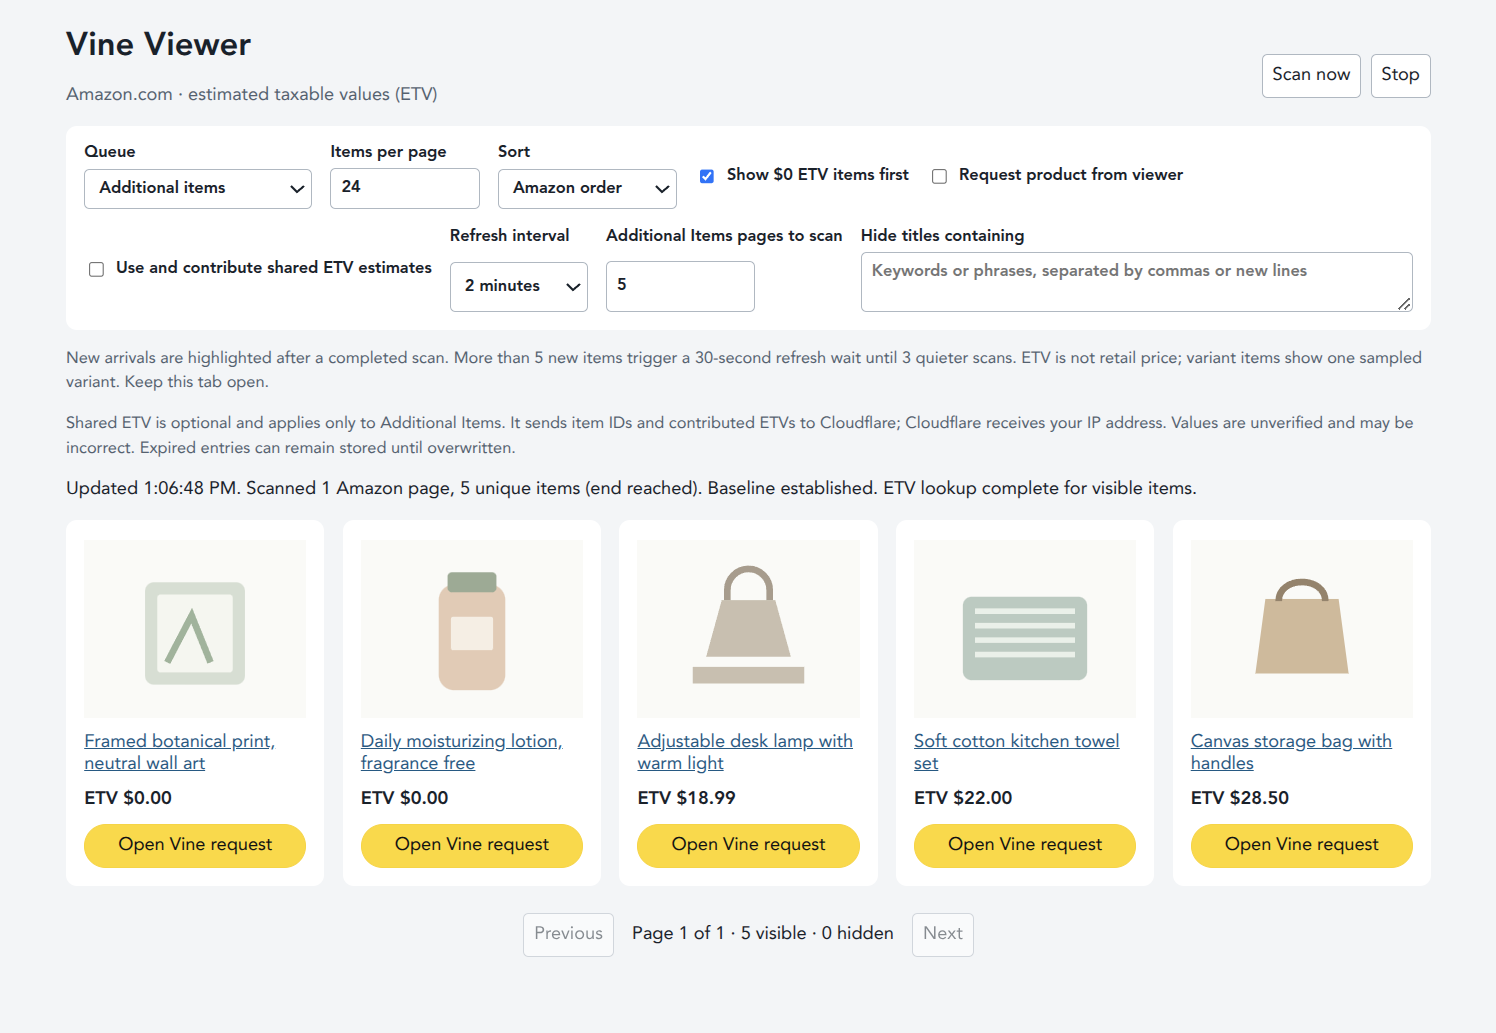
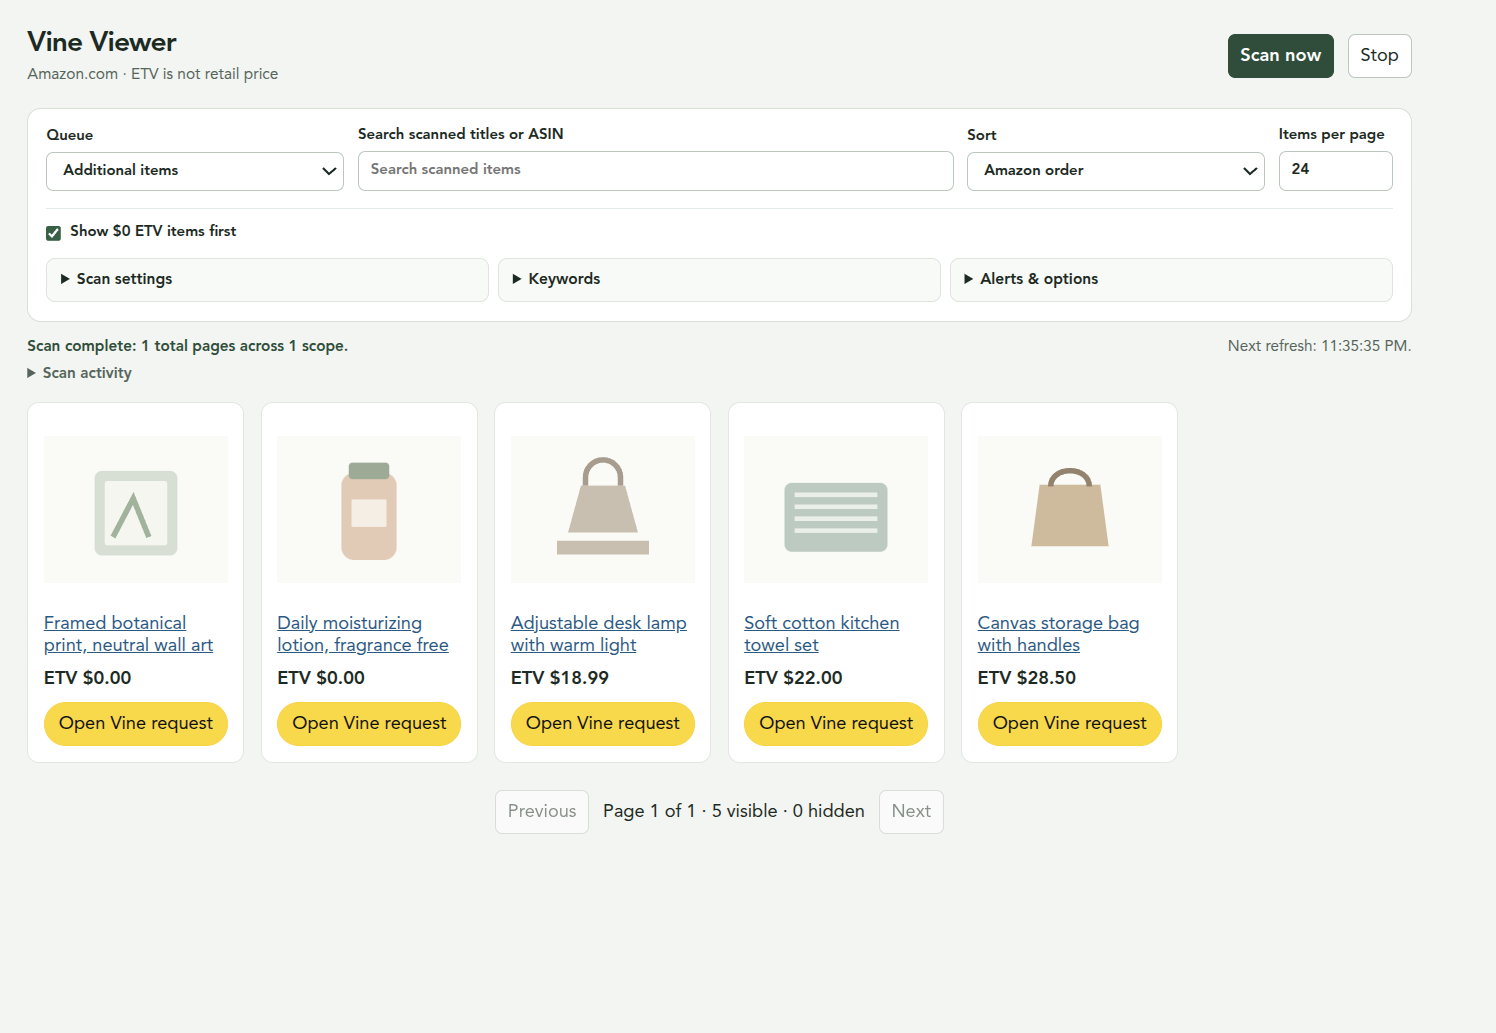
Condense viewer controls and settings
Organize advanced settings into collapsible groups while keeping browsing and scan status accessible.

diff --git a/viewer.html b/viewer.html
@@ -12,10 +12,10 @@
 </head>
 <body>
   <main>
-    <header>
+    <header class="app-header">
       <div>
         <h1>Vine Viewer</h1>
-        <p>Amazon.com &middot; estimated taxable values (ETV)</p>
+        <p>Amazon.com &middot; ETV is not retail price</p>
       </div>
       <div class="actions">
         <button id="refresh" type="button">Scan now</button>
@@ -23,63 +23,92 @@
       </div>
     </header>
     <form id="settings">
-      <label>Queue
-        <select id="queue">
-          <option value="encore">Additional items</option>
-          <option value="potluck">Recommended for you</option>
-          <option value="last_chance">Available for all</option>
-        </select>
-      </label>
-      <label>Items per page
-        <input id="page-size" type="number" min="1" max="100" step="1" required>
-      </label>
-      <label>Sort
-        <select id="sort">
-          <option value="recent">Amazon order</option>
-          <option value="high">ETV: high to low</option>
-          <option value="low">ETV: low to high</option>
-        </select>
-      </label>
-      <label class="checkbox"><input id="show-zero" type="checkbox"> Show $0 ETV items first</label>
-      <label class="checkbox"><input id="direct-request" type="checkbox"> Request product from viewer</label>
-      <label class="checkbox"><input id="shared-etv" type="checkbox"> Use and contribute shared ETV estimates</label>
-      <label>Refresh interval
-        <select id="interval">
-          <option value="0">Off</option>
-          <option value="120">2 minutes</option>
-          <option value="300">5 minutes</option>
-          <option value="600">10 minutes</option>
-          <option value="1800">30 minutes</option>
-        </select>
-      </label>
-      <label>Additional Items pages to scan
-        <input id="scan-pages" type="number" min="1" max="100" step="1" required>
-      </label>
-      <label class="keywords">Hide titles containing
-        <textarea id="keywords" rows="2" placeholder="Keywords or phrases, separated by commas or new lines"></textarea>
-      </label>
-      <label class="keywords">Highlight titles containing
-        <textarea id="highlight-keywords" rows="2" placeholder="Keywords or phrases, separated by commas or new lines"></textarea>
-      </label>
-      <label class="keywords">Favorite Additional Items category URLs
-        <textarea id="categories" rows="2" placeholder="One Amazon.com Vine category URL per line"></textarea>
-      </label>
-      <label class="checkbox"><input id="alert-keywords" type="checkbox"> Alert for highlighted keywords</label>
-      <label class="checkbox"><input id="alert-zero" type="checkbox"> Alert for $0 ETV</label>
-      <label class="checkbox"><input id="alert-sound" type="checkbox"> Play alert sound</label>
-      <label class="checkbox"><input id="alert-desktop" type="checkbox"> Desktop notifications</label>
+      <div class="browse-controls">
+        <label>Queue
+          <select id="queue">
+            <option value="encore">Additional items</option>
+            <option value="potluck">Recommended for you</option>
+            <option value="last_chance">Available for all</option>
+          </select>
+        </label>
+        <label class="search">Search scanned titles or ASIN
+          <input id="search" type="search" placeholder="Search scanned items" autocomplete="off">
+        </label>
+        <label>Sort
+          <select id="sort">
+            <option value="recent">Amazon order</option>
+            <option value="high">ETV: high to low</option>
+            <option value="low">ETV: low to high</option>
+          </select>
+        </label>
+        <label>Items per page
+          <input id="page-size" type="number" min="1" max="100" step="1" required>
+        </label>
+      </div>
+      <div class="settings-bar">
+        <label class="checkbox"><input id="show-zero" type="checkbox"> Show $0 ETV items first</label>
+        <div class="settings-groups">
+          <details id="scan-settings">
+            <summary>Scan settings</summary>
+            <div class="settings-content">
+              <label>Refresh interval
+                <select id="interval">
+                  <option value="0">Off</option>
+                  <option value="120">2 minutes</option>
+                  <option value="300">5 minutes</option>
+                  <option value="600">10 minutes</option>
+                  <option value="1800">30 minutes</option>
+                </select>
+              </label>
+              <label>Additional Items pages to scan
+                <input id="scan-pages" type="number" min="1" max="100" step="1" required>
+              </label>
+              <label>Favorite Additional Items category URLs
+                <textarea id="categories" rows="2" placeholder="One Amazon.com Vine category URL per line"></textarea>
+              </label>
+              <p class="note">Favorites are scanned after the regular pages; the page limit applies to each. Keep this tab open. More than 5 new items trigger a 30-second refresh wait until 3 quieter scans.</p>
+            </div>
+          </details>
+          <details>
+            <summary>Keywords</summary>
+            <div class="settings-content">
+              <label>Hide titles containing
+                <textarea id="keywords" rows="2" placeholder="Keywords or phrases, separated by commas or new lines"></textarea>
+              </label>
+              <label>Highlight titles containing
+                <textarea id="highlight-keywords" rows="2" placeholder="Keywords or phrases, separated by commas or new lines"></textarea>
+              </label>
+            </div>
+          </details>
+          <details>
+            <summary>Alerts &amp; options</summary>
+            <div class="settings-content">
+              <label class="checkbox"><input id="alert-keywords" type="checkbox"> Alert for highlighted keywords</label>
+              <label class="checkbox"><input id="alert-zero" type="checkbox"> Alert for $0 ETV</label>
+              <label class="checkbox"><input id="alert-sound" type="checkbox"> Play alert sound</label>
+              <label class="checkbox"><input id="alert-desktop" type="checkbox"> Desktop notifications</label>
+              <label class="checkbox"><input id="direct-request" type="checkbox"> Request product from viewer</label>
+              <label class="checkbox"><input id="shared-etv" type="checkbox" aria-describedby="shared-etv-note"> Use and contribute shared ETV estimates</label>
+              <p class="note" id="shared-etv-note">Optional; Additional Items only. Sends item IDs and contributed ETVs to Cloudflare, which receives your IP address. Estimates are unverified and may be incorrect. Expired entries can remain stored until overwritten.</p>
+            </div>
+          </details>
+        </div>
+      </div>
     </form>
-    <p class="note">Favorite categories are scanned after the regular Additional Items pages, with the page limit applied to each. New arrivals are highlighted after a completed scan. More than 5 new items trigger a 30-second refresh wait until 3 quieter scans. ETV is not retail price; variant items show one sampled variant. Keep this tab open.</p>
-    <p class="note">Shared ETV is optional and applies only to Additional Items. It sends item IDs and contributed ETVs to Cloudflare; Cloudflare receives your IP address. Values are unverified and may be incorrect. Expired entries can remain stored until overwritten.</p>
     <p id="cache-status" role="status" aria-live="polite" hidden></p>
     <p id="alert-status" role="alert" hidden></p>
-    <p id="scan-progress" role="status" aria-live="polite">Starting scan…</p>
-    <p id="next-refresh">Next refresh: not scheduled.</p>
-    <p id="status" role="status" aria-live="polite">Starting&hellip;</p>
     <p id="error" role="alert" hidden></p>
-    <label class="search">Search scanned titles or ASIN
-      <input id="search" type="search" placeholder="Search scanned items" autocomplete="off">
-    </label>
+    <section class="scan-status" aria-label="Scan status">
+      <div class="scan-status-line">
+        <p id="scan-progress" role="status" aria-live="polite">Starting scan…</p>
+        <p id="next-refresh">Next refresh: not scheduled.</p>
+      </div>
+      <details class="activity">
+        <summary>Scan activity</summary>
+        <p id="status" role="status" aria-live="polite">Starting&hellip;</p>
+        <p class="note">New arrivals are highlighted after a completed scan. Variant items show one sampled variant.</p>
+      </details>
+    </section>
     <section id="items" aria-label="Vine items"></section>
     <nav aria-label="Viewer pages">
       <button id="previous" type="button">Previous</button>

diff --git a/viewer.css b/viewer.css
@@ -1,35 +1,82 @@
-:root { color-scheme: light; font-family: system-ui, sans-serif; color: #17212b; background: #f3f5f7; }
+:root {
+  color-scheme: light;
+  font-family: system-ui, sans-serif;
+  color: #172b23;
+  background: #f3f5f2;
+}
+* { box-sizing: border-box; }
 body { margin: 0; }
-main { max-width: 1200px; margin: auto; padding: 1.5rem; }
-header, nav { display: flex; justify-content: space-between; align-items: center; gap: 1rem; }
-h1 { margin: 0; font-size: 1.8rem; }
-header p, .note { color: #526170; }
-form { display: flex; gap: 1rem; flex-wrap: wrap; padding: 1rem; background: white; border-radius: 0.6rem; }
-label { display: grid; gap: 0.3rem; font-size: 0.9rem; font-weight: 600; }
+main { max-width: 1280px; margin: auto; padding: 1.5rem; }
+.app-header, .actions, .scan-status-line, nav { display: flex; align-items: center; gap: 0.75rem; }
+.app-header { justify-content: space-between; margin-bottom: 1.25rem; }
+h1 { margin: 0; font-size: 1.55rem; letter-spacing: -0.035em; }
+.app-header p { margin: 0.25rem 0 0; color: #52665a; font-size: 0.85rem; }
+label { display: grid; gap: 0.35rem; min-width: 0; font-size: 0.82rem; font-weight: 650; }
 [hidden] { display: none !important; }
-input, select, button, textarea { font: inherit; padding: 0.55rem; border: 1px solid #aeb8c2; border-radius: 0.3rem; background: white; color: inherit; }
-input { width: 7rem; }
-.checkbox { display: flex; align-items: center; gap: 0.5rem; }
-.checkbox input { width: auto; }
-.keywords { flex: 1 1 300px; }
-.search { margin: 1rem 0; max-width: 24rem; }
-.search input { width: auto; }
-.actions { display: flex; gap: 0.5rem; }
+input, select, button, textarea {
+  min-width: 0;
+  font: inherit;
+  padding: 0.55rem 0.65rem;
+  border: 1px solid #b9c9bd;
+  border-radius: 0.4rem;
+  background: white;
+  color: inherit;
+}
+input:focus-visible, select:focus-visible, button:focus-visible, textarea:focus-visible, summary:focus-visible, a:focus-visible {
+  outline: 3px solid #82ab80;
+  outline-offset: 2px;
+}
+input, select, textarea { width: 100%; }
+textarea { resize: vertical; }
 button { cursor: pointer; }
 button:disabled { opacity: 0.5; cursor: default; }
-.note { font-size: 0.9rem; line-height: 1.5; }
-#error { padding: 0.75rem; background: #fff0ef; color: #8e211b; border-radius: 0.3rem; }
-#items { display: grid; grid-template-columns: repeat(auto-fill, minmax(190px, 1fr)); gap: 1rem; }
-article { display: flex; flex-direction: column; padding: 1rem; gap: 0.7rem; background: white; border-radius: 0.6rem; }
+#refresh { background: #244e38; border-color: #244e38; color: white; font-weight: 650; }
+#refresh:hover:not(:disabled) { background: #326449; }
+#settings { padding: 1rem; border: 1px solid #d6e0d6; border-radius: 0.75rem; background: white; }
+.browse-controls { display: grid; grid-template-columns: minmax(150px, 1fr) minmax(200px, 2fr) minmax(150px, 1fr) 100px; gap: 0.75rem; align-items: end; }
+.settings-bar { margin-top: 0.9rem; padding-top: 0.8rem; border-top: 1px solid #e3ebe3; }
+.checkbox { display: flex; align-items: center; gap: 0.5rem; line-height: 1.35; }
+.checkbox input { flex: 0 0 auto; width: auto; margin: 0; accent-color: #276141; }
+.settings-groups { display: grid; grid-template-columns: repeat(3, minmax(0, 1fr)); gap: 0.5rem; margin-top: 0.8rem; align-items: start; }
+.settings-groups details { min-width: 0; border: 1px solid #dce5dc; border-radius: 0.5rem; background: #f8faf7; }
+summary { cursor: pointer; font-weight: 650; }
+.settings-groups summary { padding: 0.65rem 0.75rem; font-size: 0.85rem; }
+.settings-content { display: grid; gap: 0.8rem; padding: 0.25rem 0.75rem 0.75rem; }
+.settings-content .note { margin: 0; }
+.note { color: #52665a; font-size: 0.8rem; line-height: 1.5; }
+#error, #alert-status, #cache-status { padding: 0.75rem; border-radius: 0.5rem; background: #fff0ef; color: #8e211b; font-size: 0.9rem; }
+.scan-status { margin: 0.9rem 0 1rem; color: #52665a; font-size: 0.84rem; }
+.scan-status-line { flex-wrap: wrap; justify-content: space-between; gap: 0.25rem 1rem; }
+.scan-status p { margin: 0; }
+#scan-progress { color: #244e38; font-weight: 650; }
+#next-refresh, #pagination { font-variant-numeric: tabular-nums; }
+.activity { margin-top: 0.45rem; }
+.activity summary { width: fit-content; color: #52665a; }
+.activity p { margin-top: 0.5rem; }
+#items { display: grid; grid-template-columns: repeat(auto-fill, minmax(190px, 1fr)); gap: 0.9rem; }
+article { display: flex; flex-direction: column; padding: 0.85rem; gap: 0.65rem; min-width: 0; background: white; border: 1px solid #e0e8e0; border-radius: 0.65rem; }
 article.new-arrival { outline: 2px solid #087549; background: #eaf8ef; }
 article.keyword-match { box-shadow: inset 0 0 0 2px #ad7713; }
-.keyword-badge { align-self: flex-start; background: #fff0c7; color: #694400; border-radius: 0.25rem; padding: 0.2rem 0.45rem; font-size: 0.8rem; font-weight: 700; }
-.arrival-badge { align-self: flex-start; background: #087549; color: white; border-radius: 0.25rem; padding: 0.2rem 0.45rem; font-size: 0.8rem; font-weight: 700; }
+.keyword-badge, .arrival-badge { align-self: flex-start; border-radius: 0.25rem; padding: 0.2rem 0.45rem; font-size: 0.75rem; font-weight: 700; }
+.keyword-badge { background: #fff0c7; color: #694400; }
+.arrival-badge { background: #087549; color: white; }
 article img { width: 100%; height: 160px; object-fit: contain; }
 article a { color: #075a86; overflow-wrap: anywhere; }
-.request-button { padding: 0.55rem; background: #ffd814; border: 1px solid #fcd200; border-radius: 1.2rem; text-align: center; text-decoration: none; color: #111; }
 article strong { margin-top: auto; }
-nav { justify-content: center; margin: 1.5rem 0; }
+.request-button { padding: 0.55rem; background: #ffd814; border: 1px solid #fcd200; border-radius: 1.2rem; text-align: center; text-decoration: none; color: #111; }
+nav { justify-content: center; flex-wrap: wrap; margin: 1.5rem 0; }
 dialog { max-width: 32rem; border: 1px solid #aeb8c2; border-radius: 0.6rem; padding: 1.5rem; }
 dialog::backdrop { background: rgb(0 0 0 / 55%); }
 #request-error { color: #8e211b; }
+@media (max-width: 760px) {
+  .browse-controls { grid-template-columns: repeat(2, minmax(0, 1fr)); }
+  .settings-groups { grid-template-columns: 1fr; }
+}
+@media (max-width: 480px) {
+  main { padding: 1rem; }
+  .app-header { align-items: flex-start; flex-wrap: wrap; }
+  .browse-controls { grid-template-columns: 1fr 1fr; }
+  .search { grid-column: 1 / -1; grid-row: 1; }
+  #items { grid-template-columns: repeat(auto-fill, minmax(min(150px, 100%), 1fr)); gap: 0.65rem; }
+  article img { height: 130px; }
+}

diff --git a/viewer.js b/viewer.js
@@ -474,6 +474,7 @@ async function applySettings() {
   if (!Number.isInteger(pageSize) || pageSize < 1 || pageSize > 100 ||
       !Number.isInteger(scanPages) || scanPages < 1 || scanPages > 100) {
     settingsInvalid = true;
+    if (!Number.isInteger(scanPages) || scanPages < 1 || scanPages > 100) $("scan-settings").open = true;
     showError("Items per page and pages to scan must be whole numbers from 1 to 100.");
     return;
   }
@@ -481,6 +482,7 @@ async function applySettings() {
     VineCore.parseCategories($("categories").value);
   } catch (error) {
     settingsInvalid = true;
+    $("scan-settings").open = true;
     showError(error.message);
     return;
   }
@@ -573,7 +575,7 @@ async function start() {
   $("direct-request").checked = settings.directRequest;
   $("shared-etv").checked = settings.sharedEtv;
   $("settings").addEventListener("change", (event) => {
-    if (event.target.id === "alert-desktop") return;
+    if (event.target.id === "alert-desktop" || event.target.id === "search") return;
     void applySettings().catch((error) => showError(`Could not save settings: ${error.message}`));
   });
   $("alert-desktop").addEventListener("change", () => {

diff --git a/tests/viewer.test.js b/tests/viewer.test.js
@@ -59,3 +59,15 @@ test("refresh scheduling reports the timer and clears it when paused", () => {
   assert.equal(h.timers[0].cleared, true);
   assert.equal(h.nodes.get("next-refresh").textContent, "Next refresh: not scheduled.");
 });
+
+test("reveals collapsed scan settings when a category URL is invalid", async () => {
+  const h = harness();
+  vm.runInContext(`
+    $("page-size").value = "24";
+    $("scan-pages").value = "5";
+    $("categories").value = "not a URL";
+  `, h.context);
+  await vm.runInContext("applySettings()", h.context);
+  assert.equal(h.nodes.get("scan-settings").open, true);
+  assert.match(h.nodes.get("error").textContent, /category URL/);
+});

diff --git a/README.md b/README.md
@@ -17,6 +17,8 @@ The optional **Request product from viewer** setting changes that button to **Re
 
 ## How it works
 
+The queue, search, sort, and page-size controls stay visible. Open **Scan settings**, **Keywords**, or **Alerts & options** for less frequently used controls; **Scan activity** shows additional status details.
+
 For Additional Items, the viewer scans a configurable number of Amazon pages (1–100, default 5), starting at page 1, with a five-second pause between requests. Changes to the page limit take effect at the start of the next scan. It stops early when Amazon reports the end. Results are combined in Amazon's page order and deduplicated by ASIN. Other queues still load only their first Amazon page. The viewer's separate **Items per page** setting controls display pagination, not Amazon's page size.
 
 Enter words or phrases separated by commas or new lines in **Hide titles containing**. Matching is case-insensitive and uses literal substrings. Filtering is local and reversible, does not hide anything on Amazon, and excludes keyword-hidden items from ETV lookups. Settings persist in Firefox.
